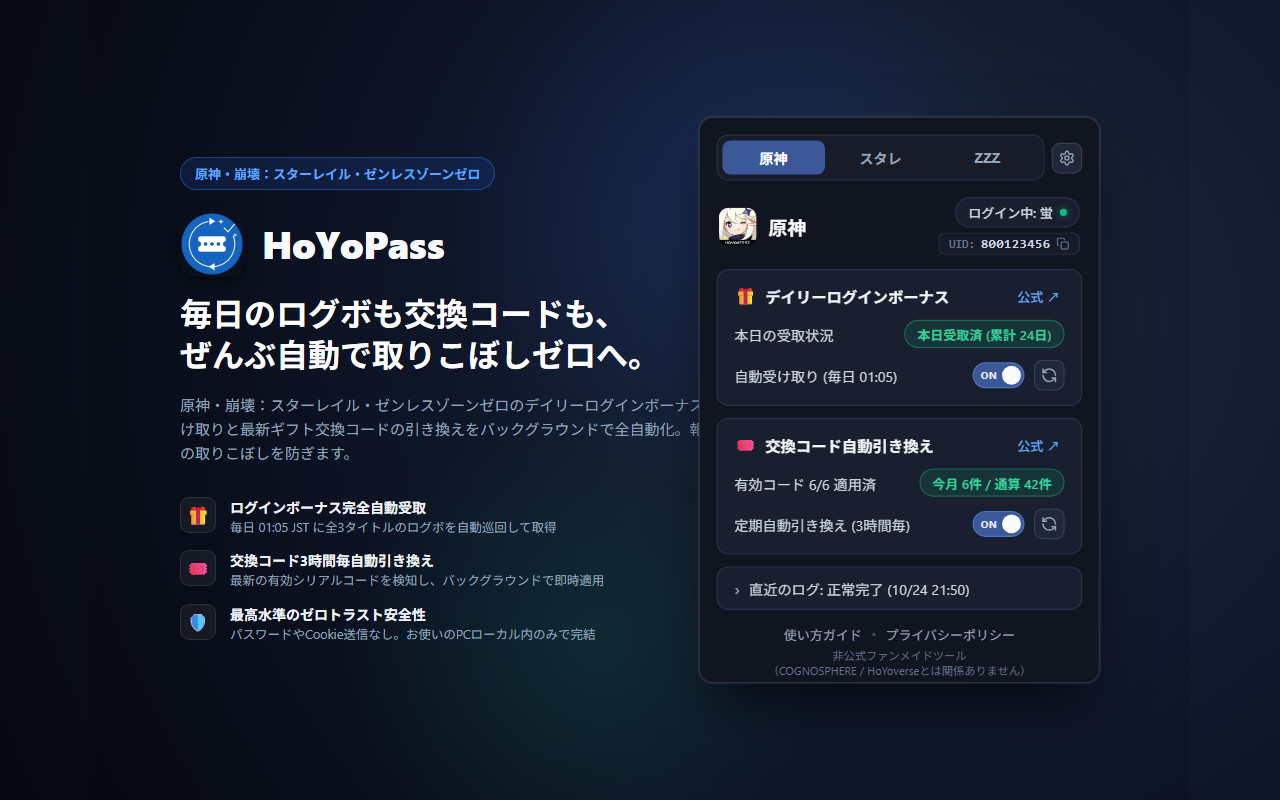
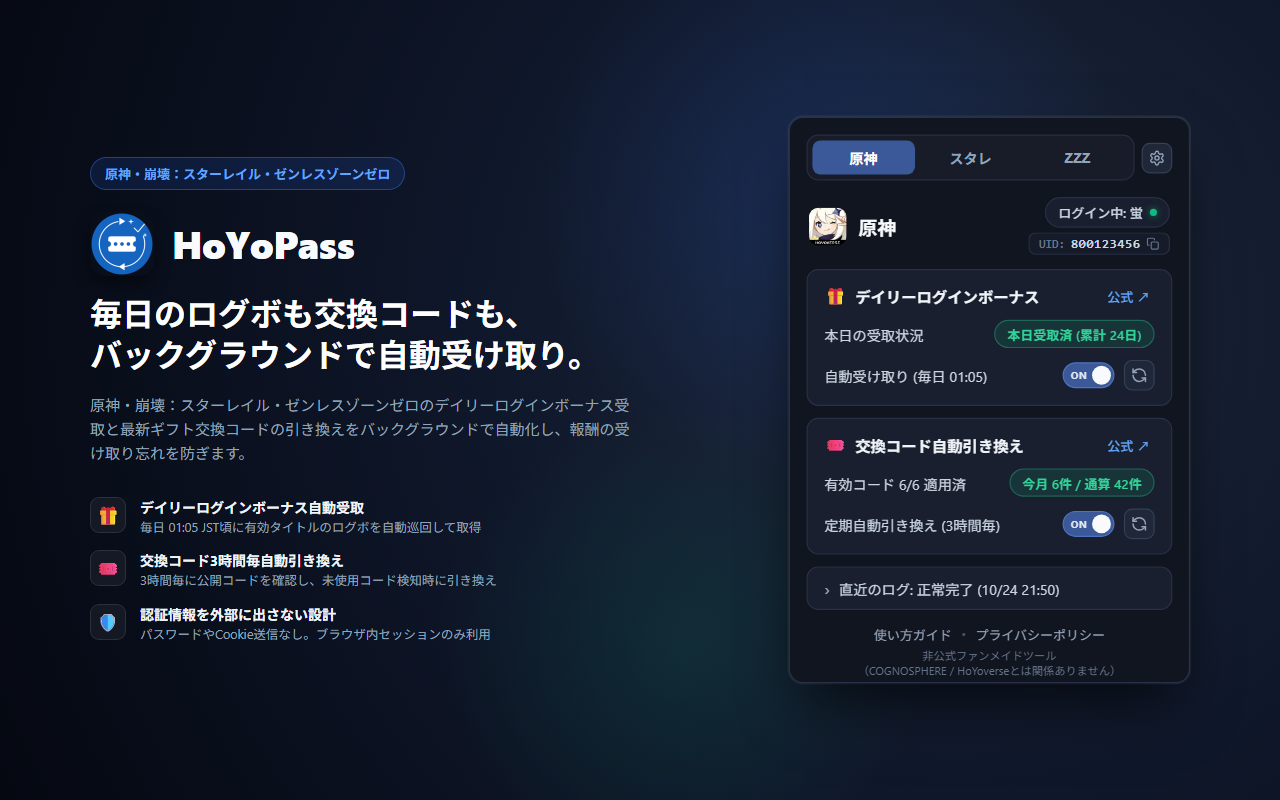
docs(screenshots): ストア用スクリーンショットの断定表現を修正し文字切れを解消
- scripts/generate-screenshots.js の「取りこぼしゼロへ」「全自動化」「完全自動受取」「最高水準のゼロトラスト安全性」「取りこぼしません」「without account risk」等を規約リスク注意喚起と整合する表現へ調整
- html, body の二重 padding を修正し screenshot1/2 の文字切れを解消
- 画像サイズ (1280x800) を維持したまま日英6枚のスクリーンショットを再生成

Entire-Checkpoint: 01M86XN6ZNVYE31C0X1HE85S3P

diff --git a/scripts/generate-screenshots.js b/scripts/generate-screenshots.js
@@ -265,21 +265,21 @@ function generateScreenshot1Html(lang = 'ja') {
   const badgeText = isEn ? 'Genshin Impact / Honkai: Star Rail / ZZZ' : '原神・崩壊：スターレイル・ゼンレスゾーンゼロ';
   const headingHtml = isEn
     ? 'Auto Daily Check-In &<br>Gift Code Redeemer.'
-    : '毎日のログボも交換コードも、<br>ぜんぶ自動で取りこぼしゼロへ。';
+    : '毎日のログボも交換コードも、<br>バックグラウンドで自動受け取り。';
   const leadText = isEn
-    ? 'Fully automate HoYoLAB daily check-in rewards and latest redemption codes in the background. Enjoy seamless rewards delivered straight to your in-game mailbox.'
-    : '原神・崩壊：スターレイル・ゼンレスゾーンゼロのデイリーログインボーナス受け取りと最新ギフト交換コードの引き換えをバックグラウンドで全自動化。報酬の取りこぼしを防ぎます。';
+    ? 'Automate HoYoLAB daily check-in bonuses and latest gift code redemptions in the background to reduce daily hassle and missed rewards.'
+    : '原神・崩壊：スターレイル・ゼンレスゾーンゼロのデイリーログインボーナス受取と最新ギフト交換コードの引き換えをバックグラウンドで自動化し、報酬の受け取り忘れを防ぎます。';
 
   const feats = isEn
     ? [
-        { icon: '🎁', title: 'Daily Check-In Auto Claim', desc: 'Claims check-in rewards across all 3 games daily at 00:05 UTC+8.' },
-        { icon: '🎟', title: 'Automatic Code Redemption', desc: 'Checks and redeems newly released codes every 3 hours.' },
-        { icon: '🛡', title: 'Zero-Trust Secure Design', desc: 'No passwords or cookies collected. Uses local browser session only.' }
+        { icon: '🎁', title: 'Daily Check-In Auto Claim', desc: 'Claims check-in rewards across enabled games daily around 00:05 UTC+8.' },
+        { icon: '🎟', title: 'Automatic Code Redemption', desc: 'Checks public codes every 3 hours and redeems unclaimed ones.' },
+        { icon: '🛡', title: 'Privacy-First Zero-Trust Design', desc: 'No passwords or cookies collected. Uses local browser session only.' }
       ]
     : [
-        { icon: '🎁', title: 'ログインボーナス完全自動受取', desc: '毎日 01:05 JST に全3タイトルのログボを自動巡回して取得' },
-        { icon: '🎟', title: '交換コード3時間毎自動引き換え', desc: '最新の有効シリアルコードを検知し、バックグラウンドで即時適用' },
-        { icon: '🛡', title: '最高水準のゼロトラスト安全性', desc: 'パスワードやCookie送信なし。お使いのPCローカル内のみで完結' }
+        { icon: '🎁', title: 'デイリーログインボーナス自動受取', desc: '毎日 01:05 JST頃に有効タイトルのログボを自動巡回して取得' },
+        { icon: '🎟', title: '交換コード3時間毎自動引き換え', desc: '3時間毎に公開コードを確認し、未使用コード検知時に引き換え' },
+        { icon: '🛡', title: '認証情報を外部に出さない設計', desc: 'パスワードやCookie送信なし。ブラウザ内セッションのみ利用' }
       ];
 
   const popupHtml = renderPopupHtml({ showDialog: false, lang });
@@ -291,7 +291,12 @@ function generateScreenshot1Html(lang = 'ja') {
   <meta charset="UTF-8">
   <style>
     * { box-sizing: border-box; margin: 0; padding: 0; }
-    html, body {
+    html {
+      width: 1280px !important;
+      height: 800px !important;
+      overflow: hidden !important;
+    }
+    body {
       width: 1280px !important;
       height: 800px !important;
       overflow: hidden !important;
@@ -401,13 +406,13 @@ function generateScreenshot2Html(lang = 'ja') {
     : 'ワンクリックで即座に実行。<br>完了ダイアログで安心確認。';
   const leadText = isEn
     ? 'Trigger check-in or code redemption right after special program livestreams. Instant modal displays redeem outcomes with breakdown.'
-    : '生放送直後の新着コードや、今すぐボーナスを受け取りたい時も安心。ポップアップ内の実行ボタンを押すだけで、現在選択中のゲームを即座に引き換えます。';
+    : '生放送直後の新着コードや、今すぐボーナスを受け取りたい時にも便利。ポップアップ内の実行ボタンを押すだけで、現在選択中のゲームを即座に引き換えます。';
 
   const feats = isEn
     ? [
         { icon: '⚡', title: 'Targeted Game Execution', desc: 'Runs only the currently selected title without waiting for timers.' },
         { icon: '📬', title: 'Delivery Outcome Display', desc: 'Displays exact count of redeemed codes and in-game mailbox notice.' },
-        { icon: '🔄', title: 'Seamless Duplicate Handling', desc: 'Codes already used in-game are safely handled without account risk.' }
+        { icon: '🔄', title: 'Seamless Duplicate Handling', desc: 'Codes already used in-game are safely recorded to avoid duplicate runs.' }
       ]
     : [
         { icon: '⚡', title: '選択中ゲームのみを即時実行', desc: 'タブで開いているタイトルだけを無駄なくピンポイントで手動処理' },
@@ -434,7 +439,12 @@ function generateScreenshot2Html(lang = 'ja') {
   <meta charset="UTF-8">
   <style>
     * { box-sizing: border-box; margin: 0; padding: 0; }
-    html, body {
+    html {
+      width: 1280px !important;
+      height: 800px !important;
+      overflow: hidden !important;
+    }
+    body {
       width: 1280px !important;
       height: 800px !important;
       overflow: hidden !important;
@@ -526,7 +536,7 @@ function generateScreenshot3Html(lang = 'ja') {
     : 'ブラウザに常駐して自動サポート。<br>設定後は放っておくだけ。';
   const desc = isEn
     ? 'HoYoPass runs quietly in the background without opening tabs. Automatic catch-up claims rewards even when your PC wakes up from sleep.'
-    : '拡張機能アイコンをクリックするだけでいつでも受取実績や稼働状況を確認可能。PCのスリープ復帰時や起動時も自動キャッチアップで取りこぼしません。';
+    : '拡張機能アイコンをクリックするだけでいつでも受取実績や稼働状況を確認可能。PCのスリープ復帰時や起動時も自動キャッチアップで受取忘れを防ぎます。';
 
   const popupHtml = renderPopupHtml({ showDialog: false, lang });
 
@@ -537,7 +547,12 @@ function generateScreenshot3Html(lang = 'ja') {
   <meta charset="UTF-8">
   <style>
     * { box-sizing: border-box; margin: 0; padding: 0; }
-    html, body {
+    html {
+      width: 1280px !important;
+      height: 800px !important;
+      overflow: hidden !important;
+    }
+    body {
       width: 1280px !important;
       height: 800px !important;
       overflow: hidden !important;
